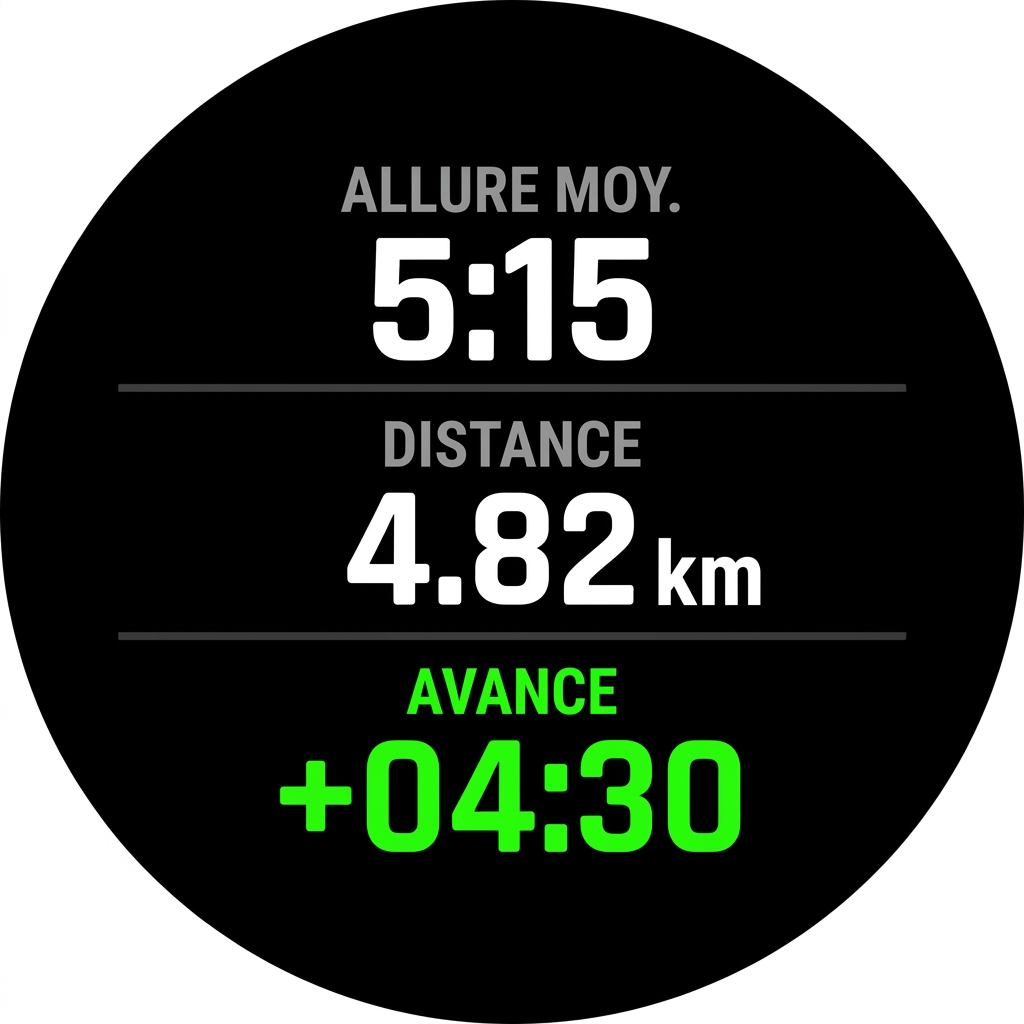
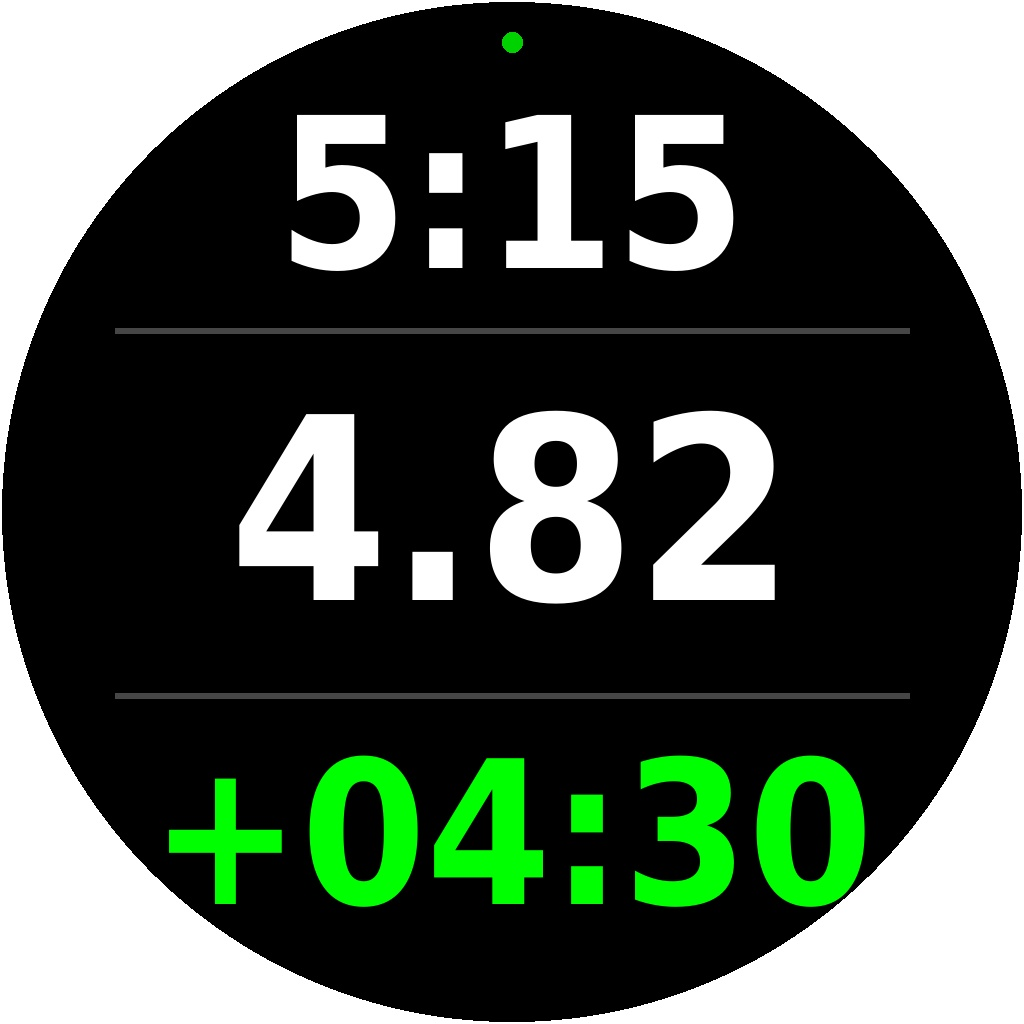
feat(little-test): pure numeric giant display without labels (250m / 2.5min test mode)

diff --git a/README.md b/README.md
@@ -1,12 +1,12 @@
-# Garmin Backyard Ultra App (v1.0.0)
+# Garmin Backyard Ultra - Version Little (Chiffres Géants / Sans Texte) - Mode TEST
 
-Application autonome (**Watch-App**) Connect IQ pour montres Garmin, spécialement conçue pour les épreuves de **Backyard Ultra** (boucle de 6,706 km à parcourir en moins d'une heure, avec départ toutes les heures).
+Application autonome (**Watch-App**) Connect IQ pour montres Garmin, édition **Little** (affichage minimaliste **100 % données pures sans libellés de texte** pour une taille de police maximale), configurée ici en **mode test rapide** (**250 mètres en 2,5 minutes** par boucle).
 
 Lien du dépôt : [https://github.com/Cynewulf89/garmin-app-backyard](https://github.com/Cynewulf89/garmin-app-backyard)
 
 ---
 
-## 📱 Aperçu des Écrans
+## 📱 Aperçu des Écrans (Version Little - Chiffres Géants)
 
 | Écran 1 (En Avance) | Écran 1 (En Retard) | Écran 1 (Repos / Terminé) | Écran 2 (Stats & Batterie) |
 | :---: | :---: | :---: | :---: |
@@ -20,50 +20,40 @@ Lien du dépôt : [https://github.com/Cynewulf89/garmin-app-backyard](https://gi
 - **Boutons UP / DOWN** : Basculent entre l'**Écran 1** (gestion de la boucle) et l'**Écran 2** (statistiques globales).
 - **Bouton BACK** : Met en pause et ouvre également le menu de clôture d'activité si une session est active.
 
+### Écran 1 : Gestion de la Boucle (Affichage Géant Sans Texte)
 
-### Écran 1 : Gestion de la Boucle (Mode Course)
+Tous les intitulés (`ALLURE MOY.`, `DISTANCE`, `AVANCE`/`RETARD`) sont supprimés pour afficher les données le plus gros possible :
 
-- **ALLURE MOY.** : Allure moyenne calculée sur la boucle en cours (min/km).
-- **DISTANCE** : Kilométrage parcouru sur la boucle actuelle (0 à 6,71 km).
-- **AVANCE / RETARD (Delta)** :
-  - **Vert (+)** si vous êtes en avance sur l'allure cible pour finir la boucle en moins de 60 minutes.
-  - **Rouge (-)** si vous êtes en retard.
-- **Réinitialisation automatique** : Cet écran se remet à zéro automatiquement à chaque heure pile.
+- **Haut (`FONT_LARGE`)** : Allure moyenne sur la boucle en cours (`MM:SS`).
+- **Milieu (`FONT_NUMBER_HOT`)** : Distance parcourue sur la boucle actuelle en chiffres géants purs sans unité (`0.00` à `0.25`).
+- **Bas (`FONT_LARGE`)** : Avance (**Vert `+MM:SS`**) ou Retard (**Rouge `-MM:SS`**) par rapport à la cible.
+- **Réinitialisation automatique** : Remise à zéro et bascule sur l'Écran 1 à chaque nouveau départ (toutes les 2 min 30 en mode test).
 
-### Écran de Pause automatique (Dès 6,706 km atteints)
+### Écran de Pause automatique (Dès 250 m atteints en mode test)
 
-- **Déclenchement automatique** : Dès que les 6,706 km du tour sont complétés, l'enregistrement GPS est automatiquement mis en pause pour éviter d'enregistrer des distances parasites au ravitaillement.
-- **Quart supérieur (1/4 - fond noir)** :
-  - Nombre de tours complétés : **X TOURS TERMINÉS** .
-  - Temps du tour tout juste achevé : Icône chronomètre ⏱ et temps (**MM:SS**).
-- **Trois quarts inférieurs (3/4 - fond blanc)** :
-  - Libellé **TEMPS DE REPOS** en noir.
-  - Décompte géant en noir (**MM:SS**) du temps de repos restant avant le coup d'envoi de l'heure suivante.
-- **Alarme unique (Vibration)** : Une vibration distincte retentit automatiquement **1 minute** avant le départ du prochain tour (à 01:00 restante au repos).
-- **Reprise automatique** : À l'heure pile suivante, l'enregistrement GPS reprend automatiquement et l'écran repasse sur le mode course normal.
+- **Déclenchement automatique** : Dès que la distance cible du tour est atteinte, l'enregistrement GPS se met en pause et l'écran bascule automatiquement sur l'affichage de repos.
+- **Quart supérieur (1/4 - fond noir)** : Uniquement le nombre de tours terminés à gauche et le chrono du tour terminé `MM:SS` à droite (`FONT_MEDIUM`), sans texte ni symbole superflu.
+- **Trois quarts inférieurs (3/4 - fond blanc)** : Uniquement le décompte géant (`FONT_NUMBER_HOT`) du temps de repos restant (**MM:SS**) en noir sur fond blanc.
+- **Alarme unique (Vibration)** : Une vibration retentit automatiquement **20 secondes** avant le départ du tour suivant (en mode test).
+- **Reprise automatique** : Au départ suivant, le GPS reprend et l'écran repasse automatiquement sur le mode course.
 
-### Écran 2 : Statistiques Globales & Autonomie
+### Écran 2 : Statistiques Globales & Autonomie (Données Pures)
 
-- **En-tête** :
-  - **Batterie** : Icône et pourcentage restant affichés tout en haut.
-  - **Heure actuelle** : Affichage discret (**HH:MM**) sous la batterie.
-- **Milieu** :
-  - **TOUR** : Numéro du tour actuel (1, 2, 3...).
-  - **TOTAL KM** : Kilométrage total cumulé depuis le départ de l'épreuve.
-- **Bas de l'écran** :
-  - **TEMPS TOTAL** : Grand chronomètre complet (**HH:MM:SS**) affiché en chiffres géants (`FONT_NUMBER_HOT`) pour une lisibilité maximale en course.
+- **En-tête (`FONT_MEDIUM`)** : Heure actuelle (**HH:MM**) à gauche et pourcentage de batterie (**XX%**) côte à côte à droite, sans icône de batterie.
+- **Milieu (`FONT_LARGE`)** : Numéro du tour en cours (`1`, `2`...) à gauche et kilométrage total cumulé (`0.00`) à droite, sans intitulés ni unité `km`.
+- **Bas (`FONT_NUMBER_MEDIUM`)** : Chronomètre global ininterrompu (**HH:MM:SS**) affiché en taille maximale respectant l'arc inférieur des écrans ronds.
 
 ---
 
 ## 📊 Rendu dans Garmin Connect (Analyse des Circuits)
 
-Grâce aux champs personnalisés Connect IQ (**FitContributor**), chaque tour de 60 minutes est automatiquement enrichi dans le tableau des circuits de l'application et du site web Garmin Connect :
+Grâce aux champs personnalisés Connect IQ (**FitContributor**), chaque tour est automatiquement enrichi dans Garmin Connect :
 
 ![Garmin Connect Laps](screenshots/garmin_connect_laps.jpg)
 
 - **Temps Course** : Temps effectif passé à courir (cadence ≥ 145 spm).
 - **Temps Marche** : Temps passé à marcher pendant la boucle (cadence < 145 spm).
-- **Temps Repos** : Temps passé au repos au ravitaillement avant le départ de l'heure suivante.
+- **Temps Repos** : Temps passé au repos au ravitaillement avant le départ suivant.
 
 ---
 
@@ -72,24 +62,8 @@ Grâce aux champs personnalisés Connect IQ (**FitContributor**), chaque tour de
 ### Prérequis
 
 - Une montre Garmin compatible : **Forerunner 945**, **Fenix 6**, **Enduro**, ou **Epix Pro (51mm)**.
-- [Garmin Express](https://www.garmin.com/express/) sur ordinateur ou smartphone avec Garmin Connect.
 
-### Méthode 1 : Fichier `.prg` direct (Recommandé)
+### Installation manuelle (`.prg`)
 
-1. Téléchargez le fichier correspondant à votre modèle (ex : `backyard-fr945.prg` pour Forerunner 945) depuis les [Releases](https://github.com/Cynewulf89/garmin-app-backyard/releases).
-2. Connectez la montre en USB à votre PC.
-3. Copiez le fichier dans le dossier `/GARMIN/APPS/` de la montre en le renommant `backyard.prg`.
-4. Éjectez l'appareil en toute sécurité puis redémarrez la montre.
-5. L'application **Backyard Ultra** apparaît dans votre liste d'activités (ou sous "Ajouter" tout en bas).
-
-### Méthode 2 : Compilation via VS Code (Développeurs)
-
-1. Clonez le dépôt :
-
-   ```bash
-   git clone https://github.com/Cynewulf89/garmin-app-backyard.git
-   ```
-
-2. Ouvrez le dossier dans VS Code.
-3. Exécutez la commande `Monkey C: Build Current Project` (`Ctrl+Shift+P`).
-4. Branchez votre montre en USB et copiez le fichier `.prg` compilé dans le dossier `GARMIN/APPS/` de l'appareil.
+1. Téléchargez le fichier correspondant à votre modèle (ex : `backyard-little-fr945.prg`) depuis les [Releases](https://github.com/Cynewulf89/garmin-app-backyard/releases).
+2. Connectez la montre en USB à votre PC et copiez le fichier dans `/GARMIN/APPS/`.
